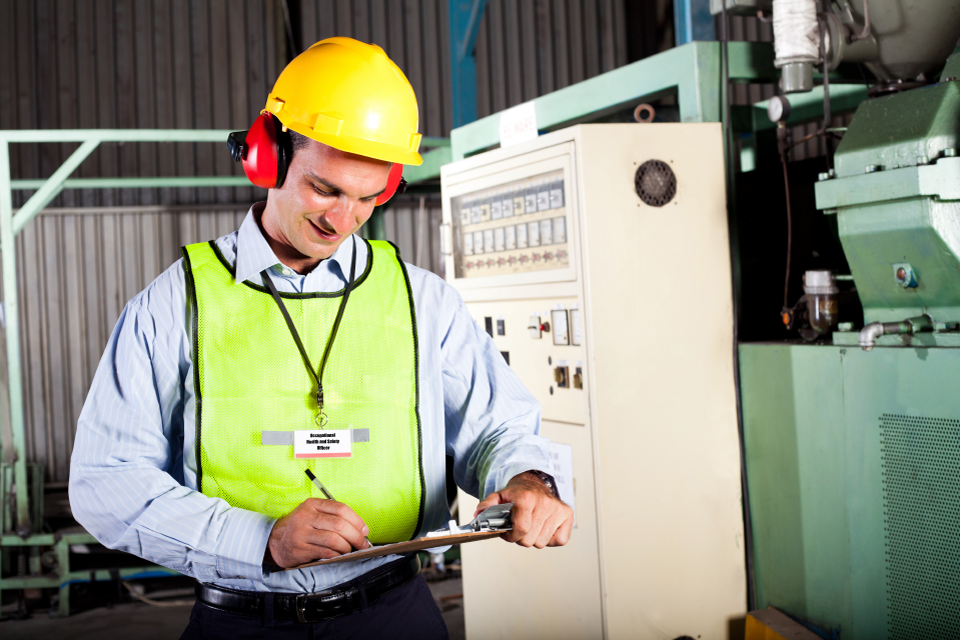
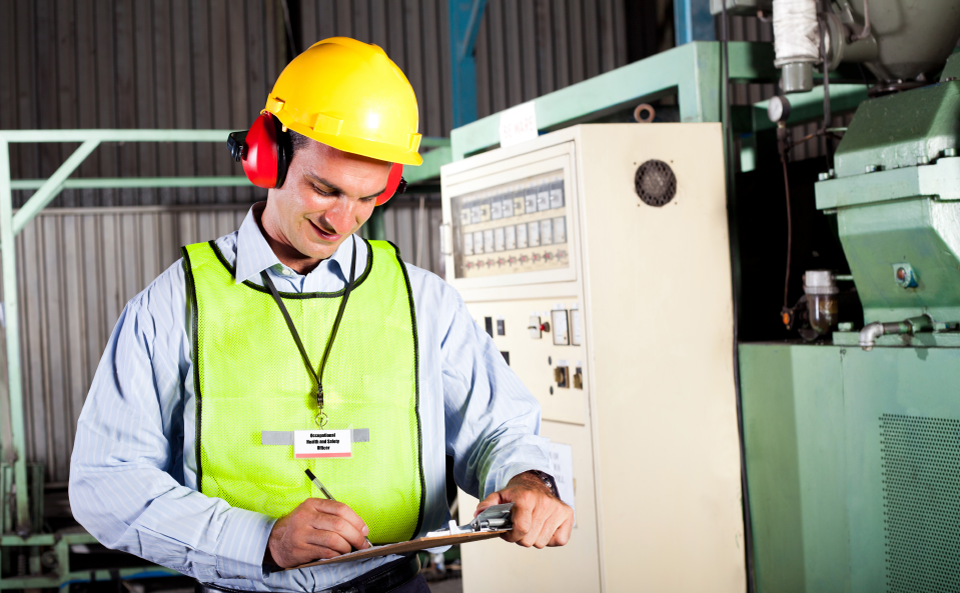
Se cambia tamaño de imágenes y se arregla estado destacado en el menú principal

diff --git a/css/ETDHBaseStyle.css b/css/ETDHBaseStyle.css
@@ -807,52 +807,52 @@
 }
 
 .etdh-panel .start-image {
-		background: url(../images/inner_images/inner_image_1.png) no-repeat center center / cover;
+		background: url(../images/inner_images/inner_image_1.jpg) no-repeat center center / cover;
 }
 
 .etdh-panel .definition-image {
-		background: url(../images/inner_images/inner_image_2.png) no-repeat center 35% / cover;
+		background: url(../images/inner_images/inner_image_2.jpg) no-repeat center 35% / cover;
 }
 
 .etdh-panel .education-departments-image {
-		background: url(../images/inner_images/inner_image_3.png) no-repeat center center / cover;
+		background: url(../images/inner_images/inner_image_3.jpg) no-repeat center center / cover;
 }
 
 .etdh-panel .educational-institutions-image {
-		background: url(../images/inner_images/inner_image_4.png) no-repeat center 35% / cover;
+		background: url(../images/inner_images/inner_image_4.jpg) no-repeat center 35% / cover;
 }
 
 .etdh-panel .information-systems-image {
-		background: url(../images/inner_images/inner_image_5.png) no-repeat center 35% / cover;
+		background: url(../images/inner_images/inner_image_5.jpg) no-repeat center 35% / cover;
 }
 
 .etdh-panel .normativity-image {
-		background: url(../images/inner_images/inner_image_6.png) no-repeat center center / cover;
+		background: url(../images/inner_images/inner_image_6.jpg) no-repeat center center / cover;
 }
 
 .etdh-panel .bulletin-image {
-		background: url(../images/inner_images/inner_image_7.png) no-repeat center center / cover;
+		background: url(../images/inner_images/inner_image_7.jpg) no-repeat center center / cover;
 }
 
 .etdh-panel .chat-image {
-		background: url(../images/inner_images/inner_image_8.png) no-repeat center 30% / cover;
+		background: url(../images/inner_images/inner_image_8.jpg) no-repeat center 30% / cover;
 }
 
 .etdh-panel .forum-image {
-		background: url(../images/inner_images/inner_image_9.png) no-repeat center 35% / cover;
+		background: url(../images/inner_images/inner_image_9.jpg) no-repeat center 35% / cover;
 }
 
 .etdh-panel .programs-image {
-		background: url(../images/inner_images/inner_image_10.png) no-repeat center center / cover;
+		background: url(../images/inner_images/inner_image_10.jpg) no-repeat center center / cover;
 }
 
 .etdh-panel .faq-image {
-		background: url(../images/inner_images/inner_image_11.png) no-repeat center 35% / cover;
+		background: url(../images/inner_images/inner_image_11.jpg) no-repeat center 35% / cover;
 		margin: 0;
 }
 
 .etdh-panel .events-image {
-		background: url(../images/inner_images/inner_image_12.png) no-repeat center 35% / cover;
+		background: url(../images/inner_images/inner_image_12.jpg) no-repeat center 35% / cover;
 }
 
 @media (max-width: 710px) {
@@ -993,7 +993,7 @@
 		top: 15%;
 		width: 40%;
 	}
-	
+
 	#etdh_home_slider .views-slideshow-controls-top {
 		width: 90%;
 	}
@@ -1010,4 +1010,3 @@
 		width: 85%;
 	}
 }
-

diff --git a/js/backup-custom-content.php b/js/backup-custom-content.php
@@ -1,12 +1,25 @@
+<!--Exceptuar para FAQ EDTH-->
+<script src="https://ajax.googleapis.com/ajax/libs/jquery/1.12.2/jquery.min.js"></script>
+<script>
+	jQuery(function () {
+	    if (isUrlEndsWithETDH("/etdh")) {
+					$( ".etdh-panel .main-menu .menu li a" ).first().addClass("active");
+			}
+			else {
+					$( ".etdh-panel .main-menu .menu li a" ).first().removeClass("active");
+			}
+	});
+	function isUrlEndsWithETDH(finalWord) {
+			return window.location.href.endsWith(finalWord);
+	}
+</script>
+
 <!--Enlaces de todas las páginas-->
 <link rel="stylesheet" href="http://maxcdn.bootstrapcdn.com/bootstrap/3.3.6/css/bootstrap.min.css">
 <link rel="stylesheet" href="https://dl.dropboxusercontent.com/u/575652037/edu-etdh/css/condensed-fix.css">
 <link rel="stylesheet" href="https://dl.dropboxusercontent.com/u/575652037/edu-etdh/css/ETDHBaseStyle.css">
 
 <script src="http://maxcdn.bootstrapcdn.com/bootstrap/3.3.6/js/bootstrap.min.js"></script>
-
-<!--Exceptuar para FAQ EDTH-->
-<script src="https://ajax.googleapis.com/ajax/libs/jquery/1.12.2/jquery.min.js"></script>
 
 <!--Enlaces de acceso rápido-->
 <a href="/etdh/92424">
@@ -77,7 +90,7 @@ function setUrl(image, anchor) {
     var backgroundUrl = /^url\((['"]?)(.*)\1\)$/.exec( image.css('background-image') );
     backgroundUrl = backgroundUrl ? backgroundUrl[2] : "";
     anchor.attr( "href", backgroundUrl );
-  }
+}
 </script>
 <!--Estilo de links de acceso rápido y carrusel en FAQ ETDH-->
 <style>
